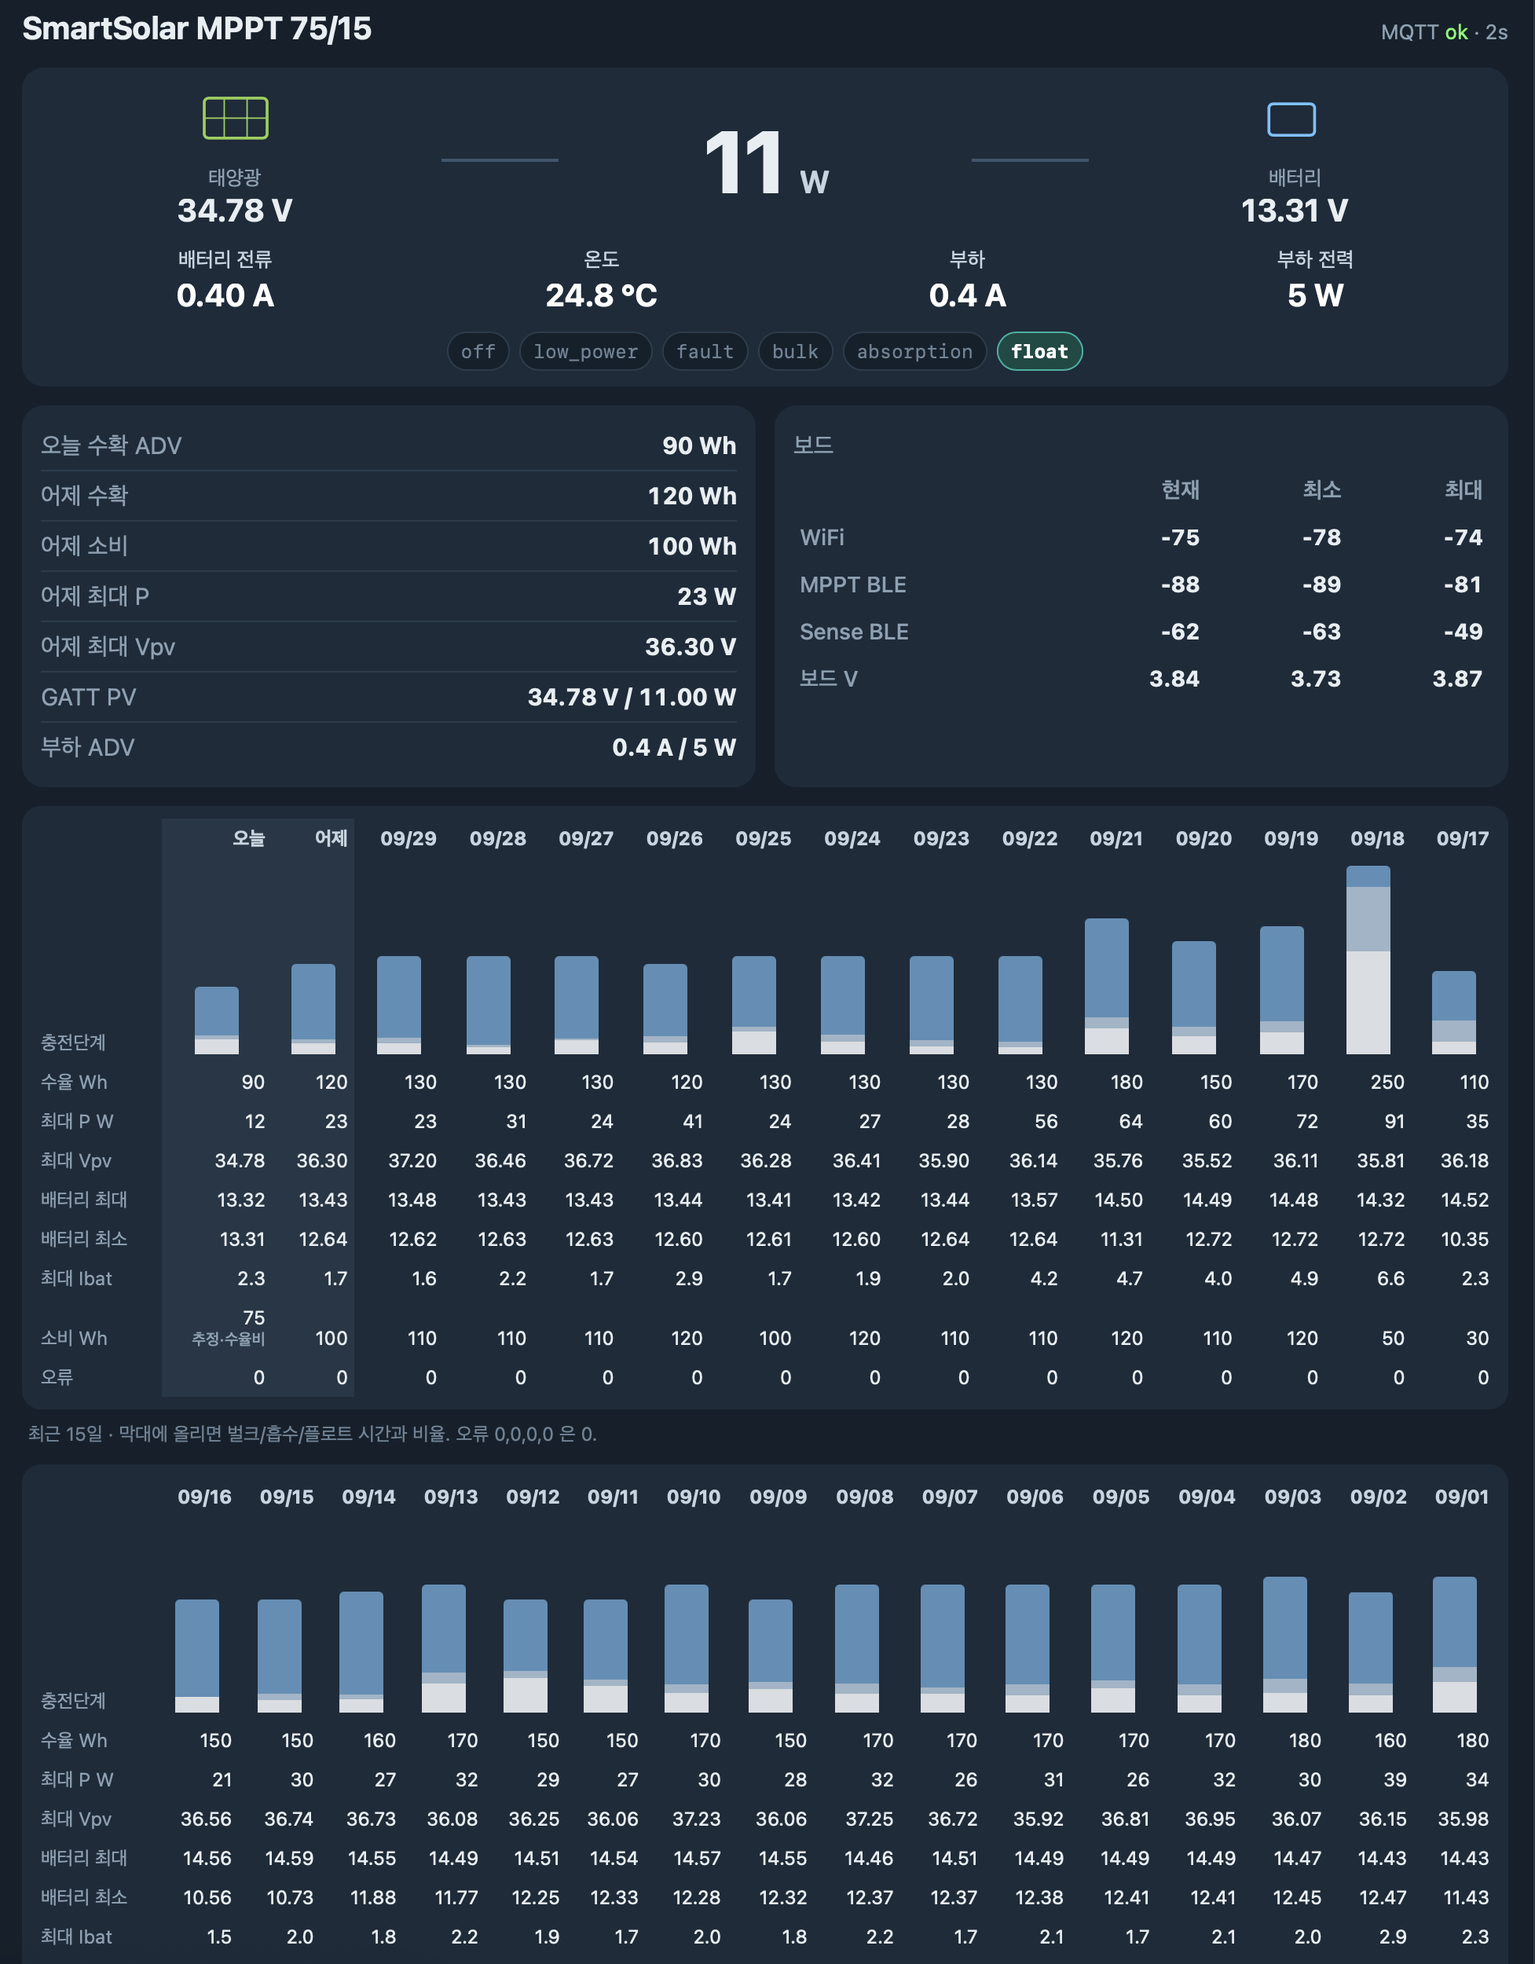
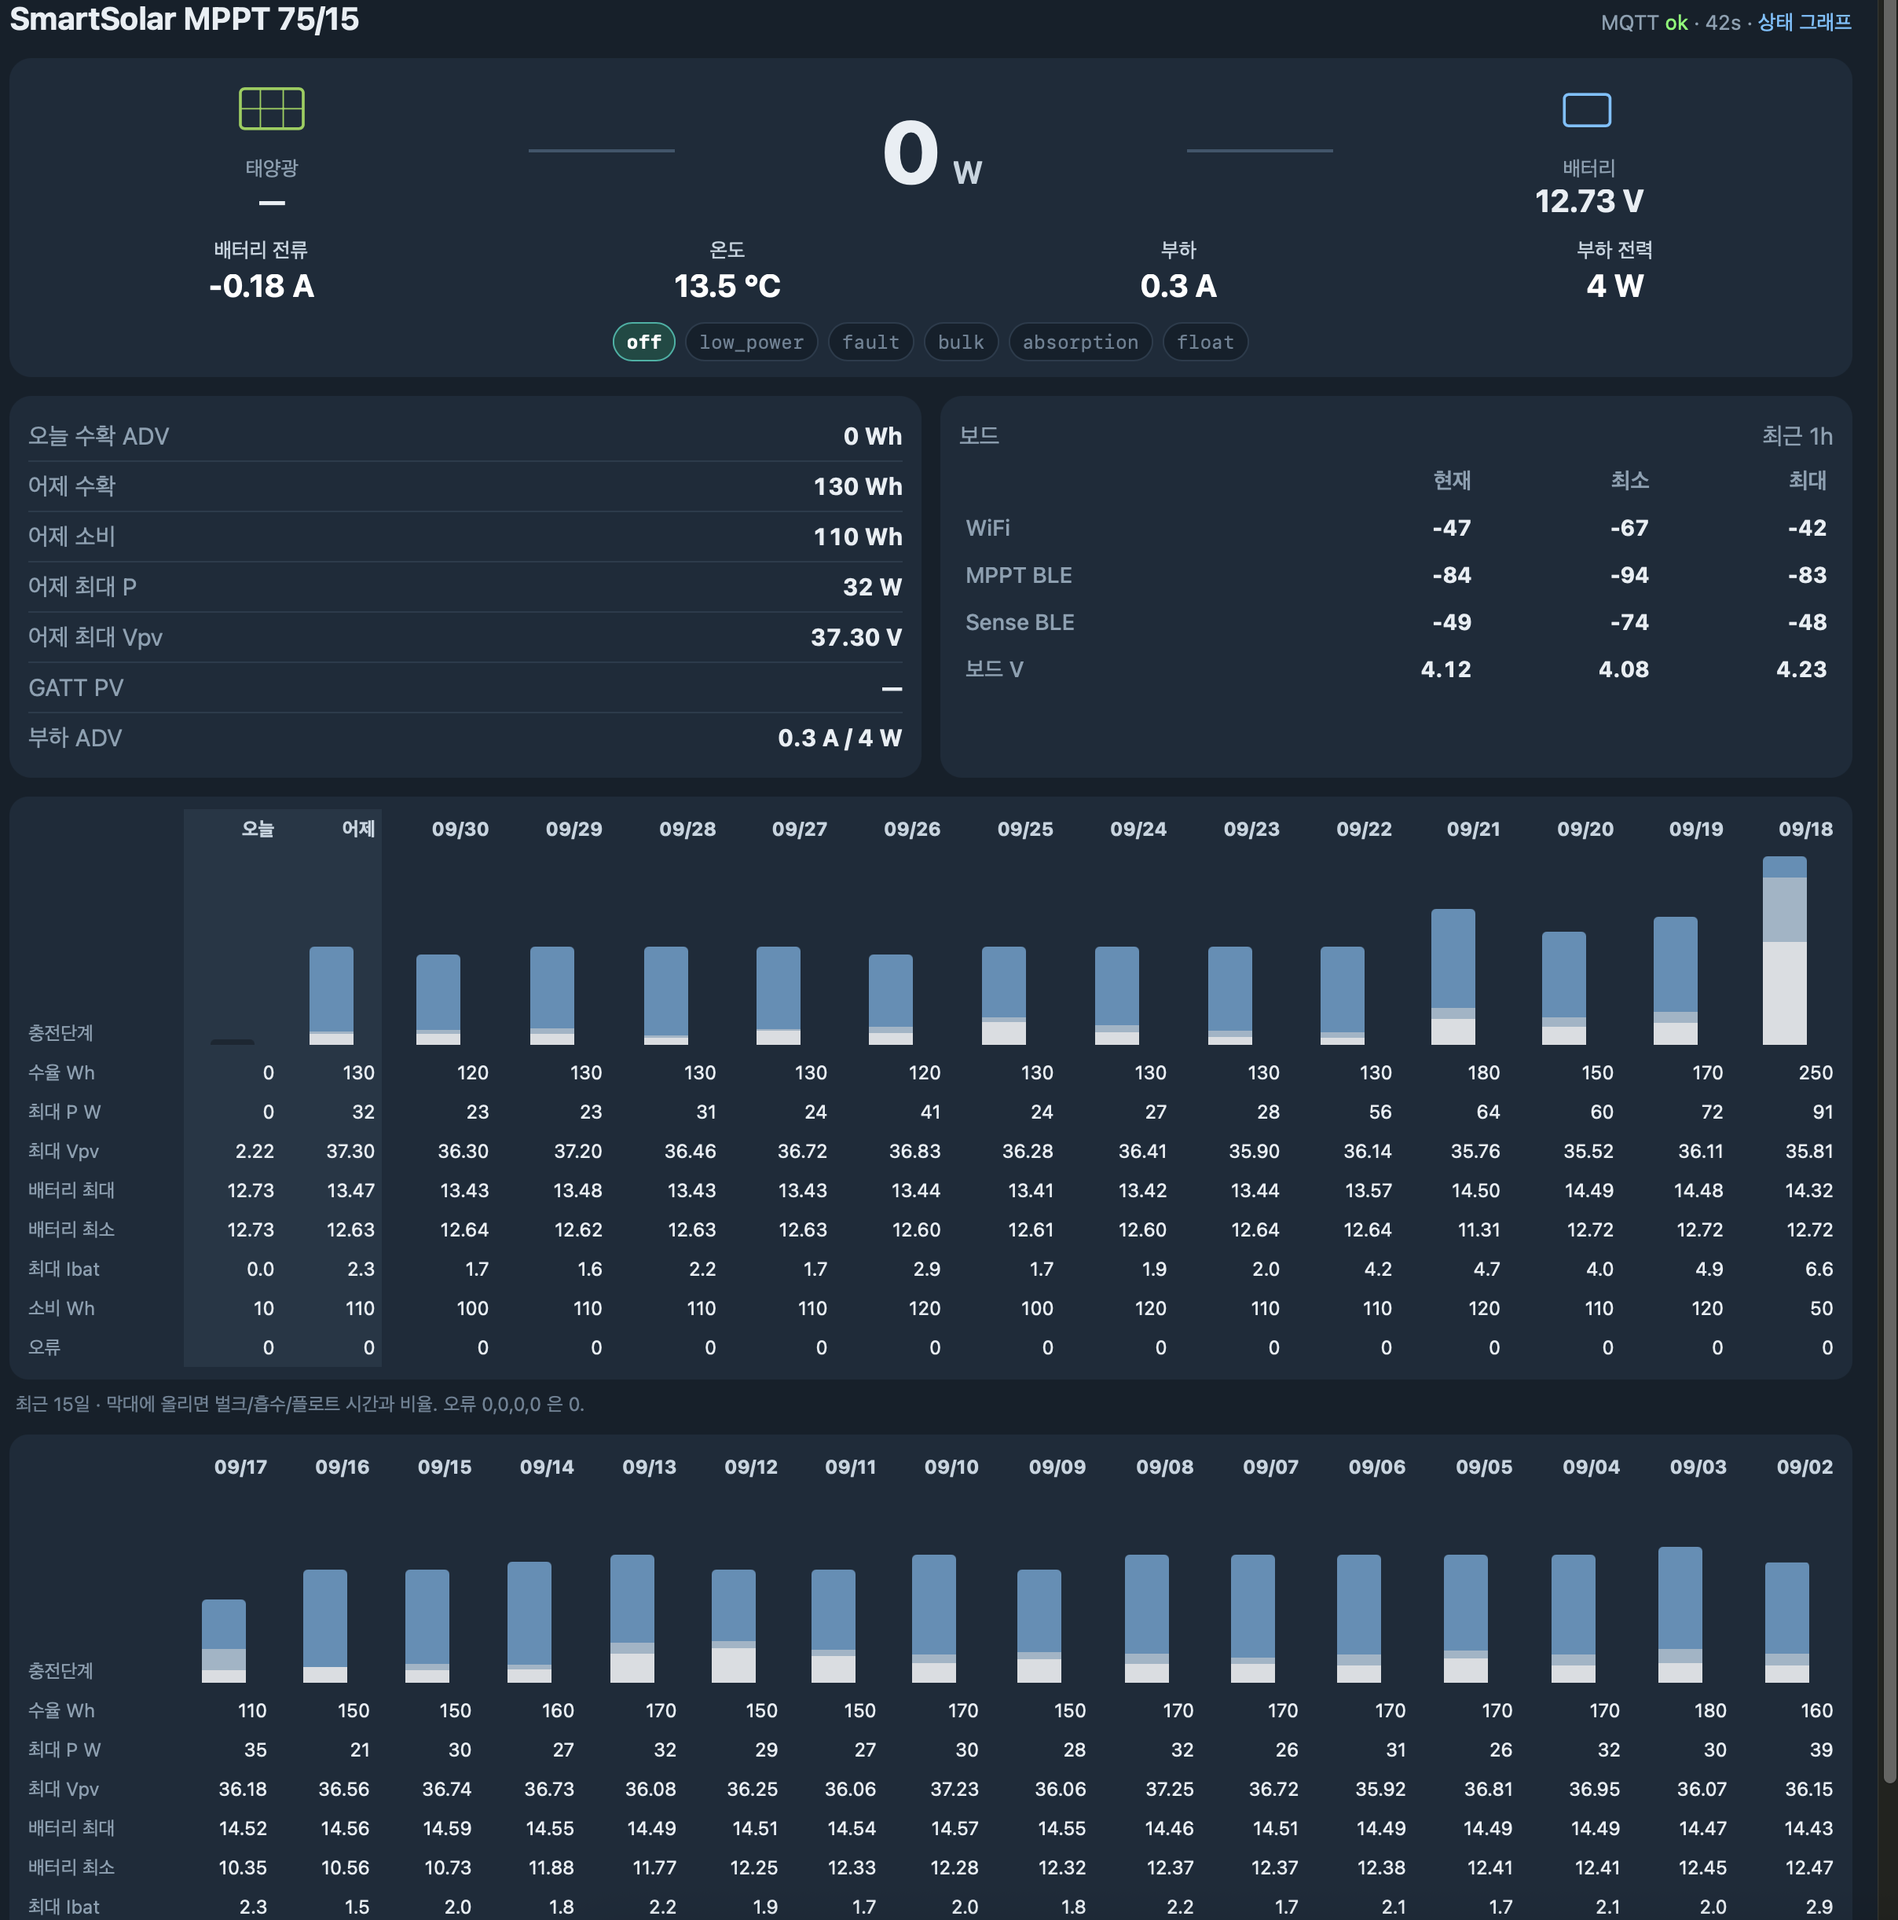
Add files via upload
스캔 설정, 시계·드리프트 보정, 새 status 필드 표, 평소 수치, 배터리 절감

diff --git a/victron-ble-mqtt/victron_mqtt_view.py b/victron-ble-mqtt/victron_mqtt_view.py
@@ -458,6 +458,8 @@ def _push_board(obj: dict[str, Any]) -> None:
         mp = None
     if se is not None and se >= 0:
         se = None
+    if vb is not None and vb <= 0.5:          # statuspage3: 0.00 = no ADC reading
+        vb = None
     _board_q.append([now, wifi, mp, se, vb])
     cut = now - BOARD_KEEP
     while _board_q and _board_q[0][0] < cut:
@@ -474,6 +476,45 @@ STATUS_RANGES: dict[str, float] = {"1h": 3600, "6h": 6 * 3600, "24h": 24 * 3600}
 _status_q: deque[dict] = deque()
 _status_lock = threading.Lock()
 _status_saved = 0.0
+
+
+def _sig_ok(field: str, v: Any) -> bool:
+    """statuspage3: RSSI 0 / >= 0 / <= -127 = no reading; board vbat <= 0.5 V = no reading"""
+    if v is None or isinstance(v, bool):
+        return False
+    try:
+        x = float(v)
+    except (TypeError, ValueError):
+        return False
+    if x != x:
+        return False
+    if field.endswith("rssi"):
+        return -127.0 < x < 0.0
+    if field in ("vbat", "board_v"):
+        return x > 0.5
+    return True
+
+
+MM_FIELDS = (("wifi", "wifi_rssi"), ("mppt", "mppt_rssi"), ("sense", "sense_rssi"), ("board", "vbat"))
+MM_NOW_MAX_AGE = 150.0     # "현재" only from a status received within this many seconds
+
+
+def _board_mm(span: float) -> dict[str, Any]:
+    """main-page panel: current/min/max per field over the last `span` s of received
+    victron/status messages (same source as /status), 0/null excluded"""
+    now = time.time()
+    with _status_lock:
+        pts = [p for p in _status_q if p["rx"] >= now - span]
+    last_rx = pts[-1]["rx"] if pts else None
+    out: dict[str, Any] = {"span": span, "n": len(pts), "last_rx": last_rx}
+    for key, field in MM_FIELDS:
+        vals = [float(p["d"][field]) for p in pts if _sig_ok(field, p["d"].get(field))]
+        cur = None
+        if pts and now - pts[-1]["rx"] <= MM_NOW_MAX_AGE and _sig_ok(field, pts[-1]["d"].get(field)):
+            cur = float(pts[-1]["d"][field])
+        out[key] = {"now": cur, "min": min(vals) if vals else None,
+                    "max": max(vals) if vals else None, "n": len(vals)}
+    return out
 
 
 def _status_nums(obj: dict[str, Any]) -> dict[str, float]:
@@ -547,7 +588,11 @@ def _status_hist(key: str) -> dict[str, Any]:
             if k not in seen:
                 seen.add(k)
                 fields.append(k)
-    cols = {k: [p["d"].get(k) for p in pts] for k in fields}
+    def _cell(k: str, v: Any) -> Any:
+        if (k.endswith("rssi") or k == "vbat") and not _sig_ok(k, v):
+            return None                     # statuspage3: 0 = no reading → no point
+        return v
+    cols = {k: [_cell(k, p["d"].get(k)) for p in pts] for k in fields}
     return {"range": key, "t0": t0, "t1": now, "n": len(pts),
             "rx": [round(p["rx"], 3) for p in pts], "f": cols}
 
@@ -861,6 +906,9 @@ from(bucket: "{INFLUX_BUCKET}")
         out["board_v"] = _series(brows, "vbat")
     except Exception:
         pass
+    for k in ("wifi_rssi", "mppt_rssi", "sense_rssi", "board_v"):
+        if out.get(k):                        # statuspage3: 0 rssi / 0 V = no reading
+            out[k] = [p for p in out[k] if _sig_ok(k, p[1])]
     with state_lock:
         pts = list(state.get("board_pts") or [])
     cut = now - span
@@ -1158,7 +1206,7 @@ body.only-days .matwrap { margin:0; border-radius:0; min-height:100dvh; }
         <div class="row"><span class="k">부하 ADV</span><span class="v" id="load_row">—</span></div>
       </div>
       <div class="card">
-        <div class="row" style="border:0;padding-bottom:4px"><span class="k">보드</span><span></span></div>
+        <div class="row" style="border:0;padding-bottom:4px"><span class="k">보드</span><span class="k" id="mmwin" style="cursor:pointer" title="최소/최대 기간 = 수신한 victron/status (클릭: 1h ↔ 24h). RSSI 0 / 0 V 는 제외">최근 1h</span></div>
         <table class="mm">
           <tr><th></th><th>현재</th><th>최소</th><th>최대</th></tr>
           <tr><td>WiFi</td><td id="w_now">—</td><td id="w_min">—</td><td id="w_max">—</td></tr>
@@ -1224,6 +1272,30 @@ function mm(arr){
   for (const x of vs){ if (x<a) a=x; if (x>b) b=x; }
   return [a,b];
 }
+/* statuspage3: panel values come from the server (received victron/status history, same as /status) */
+let MMWIN = localStorage.getItem('mm_win') || '1h';
+function setMM(id, o, dp){
+  o = o || {};
+  document.getElementById(id+'_now').textContent = f(o.now, dp, '');
+  document.getElementById(id+'_min').textContent = f(o.min, dp, '');
+  document.getElementById(id+'_max').textContent = f(o.max, dp, '');
+}
+function showMM(s){
+  const el = document.getElementById('mmwin');
+  if (el) el.textContent = '최근 ' + MMWIN;
+  const bm = (s && s.board_mm) ? s.board_mm[MMWIN] : null;
+  if (!bm) return;
+  setMM('w', bm.wifi, 0); setMM('m', bm.mppt, 0); setMM('s', bm.sense, 0); setMM('bv', bm.board, 2);
+}
+let LAST_STATE = null;
+(function(){
+  const el = document.getElementById('mmwin');
+  if (el) el.addEventListener('click', () => {
+    MMWIN = (MMWIN === '1h') ? '24h' : '1h';
+    localStorage.setItem('mm_win', MMWIN);
+    showMM(LAST_STATE);
+  });
+})();
 function set3(id, cur, arr, dp){
   document.getElementById(id+'_now').textContent = f(cur, dp, '');
   const r = mm(arr);
@@ -1461,16 +1533,8 @@ async function tick(){
     document.getElementById('v_yd').textContent = f(fromH.vpv_max, 2, ' V');
     document.getElementById('gatt_pv').textContent =
       (pv.vpv!=null || pv.ppv!=null) ? (f(pv.vpv,2,' V')+' / '+f(pv.ppv,2,' W')) : '—';
-    const wr = stt.wifi_rssi, mrss = stt.mppt_rssi != null ? stt.mppt_rssi : m.rssi;
-    const srss = stt.sense_rssi != null ? stt.sense_rssi : b.rssi;
-    if (rssiOk(wr)) push(HIST.wifi, wr);
-    if (rssiOk(mrss)) push(HIST.mppt, mrss);
-    if (rssiOk(srss)) push(HIST.sense, srss);
-    if (stt.vbat!=null) push(HIST.board, stt.vbat);
-    set3('w', rssiOk(wr)?wr:null, HIST.wifi, 0);
-    set3('m', rssiOk(mrss)?mrss:null, HIST.mppt, 0);
-    set3('s', rssiOk(srss)?srss:null, HIST.sense, 0);
-    set3('bv', stt.vbat, HIST.board, 2);
+    LAST_STATE = s;
+    showMM(s);
     if (s.days) {
       DAYS = Object.keys(s.days).map(k => Object.assign({ymd:k}, s.days[k]));
     }
@@ -1718,6 +1782,7 @@ class H(BaseHTTPRequestHandler):
             days = _days_view(snap.get("days") or {})
             snap["days"] = days
             snap["dev_ymd"] = _dev_today(days)
+            snap["board_mm"] = {"1h": _board_mm(3600), "24h": _board_mm(24 * 3600)}
             body = json.dumps(snap).encode()
             self.send_response(200)
             self.send_header("Content-Type", "application/json")

diff --git a/victron-ble-mqtt/README.md b/victron-ble-mqtt/README.md
@@ -35,14 +35,21 @@ cp .env.example .env && python3 victron_mqtt_view.py     # http://127.0.0.1:8772
 
 | 언제 | 하는 일 |
 |---|---|
-| 매 분 (RTC 시계 기준 정각) | BLE 스캔 → 기기당 ADV 10개(최대 9 s) 평균 → `victron/mppt`, `victron/sense`, `victron/status` 발행 → deep sleep |
+| 매 분 (RTC 시계 기준 정각) | BLE 스캔(100 % duty, interval = window = 100 ms) → 기기당 ADV 5개(최대 6 s) 평균 → `victron/mppt`, `victron/sense`, `victron/status` 발행 → deep sleep. 깨어 있는 시간 보통 4~5 s |
 | 매 10분 (분 % 10 == 0) | GATT 로 history **day0** → `victron/mppt/hist`, MPPT 가 충전 중이면 PV → `victron/mppt/pv`. 실패하면 다음 몇 번의 기상에서 재시도 |
 | day0 seq 증가 감지 시 | 같은 작업에서 **day1** 을 읽어 `kind:"yesterday"` 로 발행 (이전 날의 최종값). 시간이 모자라면 다음 기상에서 |
 | 00:10 이후 | 어제(day1)가 아직 발행되지 않았을 때만 읽는 **fallback** (seq 롤오버로 이미 발행됐으면 아무것도 안 함) |
 | MQTT 명령 | `victron/gatt/cmd` (QoS1, persistent session 이라 자는 동안 들어온 명령도 다음 기상에 처리) |
 
-시계: 첫 부팅 NTP, 이후 1시간마다 재동기 (`yard/time` 에 epoch 를 보내도 됨). 시간대 KST.
+다음 기상 시각은 매번 잠들기 직전의 시계로 "다음 분 정각"을 다시 계산하므로, 오래 깨어 있던 기상(10분 작업, 15~20 s)이 다음 주기에 영향을 주지 않습니다.
 닫힌 날(day1..N)은 NVS 링 캐시(40일)에 저장해서 다시 읽지 않습니다.
+
+### 시계
+
+- **NTP 10분마다**: UDP 패킷 1개로 묻는 간이 NTP (보통 50~150 ms, 실패하면 SNTP 로 대체). 첫 부팅도 NTP.
+- **드리프트 보정**: HUZZAH32 에는 32 kHz 크리스털이 없어 deep sleep 중에는 내부 RC(150 kHz)로 시간을 셉니다. 실측 약 **+1.5 %** 빠름 (분당 ~0.9 s). NTP 때마다 잠든 시간 대비 오차로 ppm 을 추정해 RTC 메모리와 NVS(`drift`)에 저장하고, 매 기상마다 `직전 수면 시간 × ppm` 만큼 시계를 되돌립니다. 보정이 잡히면 `ts` 오차 ±1 s 이내.
+- **`yard/time` 은 대체 수단만**: 시계가 없거나 NTP 가 6시간 넘게 실패했을 때만 사용. 평소에는 무시(`yard_ign` 카운트)하고, persistent session 에 남은 구독도 한 번 해제합니다. (예전에는 긴 10분 작업 기상 중에 retained `yard/time` 이 시계를 덮어써서 `ts_offset` 이 10분 톱니 모양이 됐습니다.)
+- 시간대 KST.
 
 ### 날짜 라벨 (seq 기반)
 
@@ -61,23 +68,41 @@ Victron 은 history 의 하루를 **자정이 아니라 저녁에 PV 가 꺼진 
 |---|---|
 | `victron/mppt` | `id, src, sn, model, mac, rssi, vbat, ibat, power, yield_wh, load_a, state, state_n, error, n, ts` (ADV 평균, n = 평균한 패킷 수) |
 | `victron/sense` | `id, src, sn, model, mac, rssi, vbat, temp, n, ts` |
-| `victron/status` | 보드 상태: `fw, boot, wake, awake_ms, wdt, adv_*_n, *_rssi, clock, ntp_age, ntp_adj_ms, today, yday, day0_done, yday_done, wifi_*, vbat`(보드 배터리)`, heap, rst` … |
+| `victron/status` | 보드 상태: `fw, boot, wake, awake_ms, prev_awake_ms, wdt, adv_*_n, *_rssi, hits, dec_ok, dec_fail, dec_dup, dec_other, clock, clk, ntp_ms, drift_ppm, yard_ign, ntp_age, ntp_adj_ms, today, yday, day0_done, yday_done, wifi_*, vbat`(보드 배터리)`, heap, heap_min, rst` … (아래 표) |
 | `victron/mppt/hist` | `id, sn, src`(gatt\|nvs)`, kind`(today\|yesterday\|day)`, day, ymd, seq, label, yield_kwh, consumed_kwh, pmax_w, vpv_max, vbat_max, vbat_min, ibat_max, bulk_min, abs_min, float_min, err[4]` |
 | `victron/mppt/pv` | `id, sn, src, vpv, ppv, ipv` (`ipv_calc:true` = ppv/vpv 로 계산) |
 | `victron/lwt` | retained `{"tok","state":"sleep","ts","time","next","boot","awake_ms","wdt"}` — 다음 기상 시각 포함 (MQTT will 없음) |
 | `victron/gatt/cmd` (구독) | `{"cmd":"hist"}`, `{"cmd":"hist","days":N}` (N ≤ 30), `{"cmd":"pv"}`, `{"cmd":"unpair"}` |
 | `yard/time` (구독) | epoch 숫자 또는 `{"epoch":…}` — NTP 가 안 될 때의 시계 |
 
+### 상태 필드 (일부)
+
+| 필드 | 뜻 |
+|---|---|
+| `dec_ok` | 새로 복호화된 Instant Readout 패킷 수 (이번 기상) |
+| `dec_dup` | 같은 nonce 의 반복 패킷 (같은 값, 평균에서 제외) |
+| `dec_other` | Instant Readout(0x10)이 아닌 Victron 레코드 — 무해 |
+| `dec_fail` | 진짜 실패 (키/길이/값 이상). 정상이면 0 |
+| `clk` | 시계 출처 `ntp`(UDP) / `sntp` / `yard` / `none` |
+| `ntp_ms` | 이번 기상의 NTP 소요 ms (0 = 이번엔 안 함) |
+| `drift_ppm` | 추정한 deep sleep 드리프트 (+ = 빠름). 보통 ~15000 |
+| `yard_ign` | 무시한 `yard/time` 메시지 누계 |
+| `ntp_adj_ms` | 마지막 NTP 때 시계를 옮긴 양 (보정 후 잔차) |
+
+전형값 (보드 실측): `awake_ms` 4~5 s (10분 작업 기상은 15~20 s), `adv_*_n` 5, `dec_fail` 0, `wdt` 0, `wifi_ms` ~250 ms, heap ~104 KB, `drift_ppm` ~15000 (deep sleep 중 ~1.5 % 빠름).
+
 ## 뷰어
 
 - `/` — 실시간 값, 오늘/어제 요약, 31일 history 표(충전단계 막대, 수율, Pmax, Vpv, 배터리 최대/최소, Ibat, 소비, 오류), InfluxDB 가 있으면 차트
-- `/status` — `victron/status` 그래프 (보드 전압, Wi-Fi/BLE RSSI, 깨어 있던 시간 등, 최근 24 h)
+- 보드 패널 (WiFi / MPPT BLE / Sense BLE / 보드 V): 수신한 `victron/status` 의 최근 1h ↔ 24h(클릭) 현재·최소·최대. RSSI 0 과 0 V 는 "값 없음" 으로 제외
+- `/status` — `victron/status` 그래프 (RSSI 0 / 0 V 점 제외, 보드 전압, Wi-Fi/BLE RSSI, 깨어 있던 시간 등, 최근 24 h)
 - API: `/state` (전체 상태 + `days` + `dev_ymd`), `/days`, `/hist?range=12h|24h|48h|1w|1m|all` (Influx), `/api/status_hist?range=1h|6h|24h`
 - 상태 파일: `victron_days.json`, `victron_status_hist.json`, `victron_pv.json`, `victron_board_24h.jsonl` (모두 git 제외)
 - InfluxDB 측정값 이름은 `victron_mppt`, `victron_sense` 를 가정 (MQTT → Influx 적재는 별도, 예: Telegraf)
 
 ## 메모
 
+- **배터리**: ADV 를 100 % duty·5개/6 s 로 바꿔 매 분 깨어 있는 시간이 ~9.7 s → 4~5 s 로 줄었습니다 (깨어 있는 동안의 에너지 약 절반).
 - **저녁 롤오버**: 위 "날짜 라벨" 참고. 첫 부팅 휴리스틱은 맑은 날 저녁엔 맞지만, 하루 종일 발전이 0 이었던 날 18시 이후 첫 부팅이면 하루 앞당겨 붙을 수 있습니다 (다음 롤오버부터는 seq 로 정상화).
 - **ibat**: `ibat_max` 는 history 레코드 byte 28 을 0.1 A 단위 배터리 최대 전류로 해석한 것으로, VictronConnect 와 대조 검증하지 않았습니다. ADV 의 `ibat` 도 부호/의미를 충분히 검증하지 않았습니다.
 - **HUZZAH32 수면 전류**: ESP32 칩 자체는 deep sleep 에서 수십 µA 이지만, 이 보드는 USB-UART(CP2104)·LDO·충전 회로 때문에 보드 전체로는 수 mA 수준이 흐릅니다. 배터리 운용이면 직접 측정하세요.
